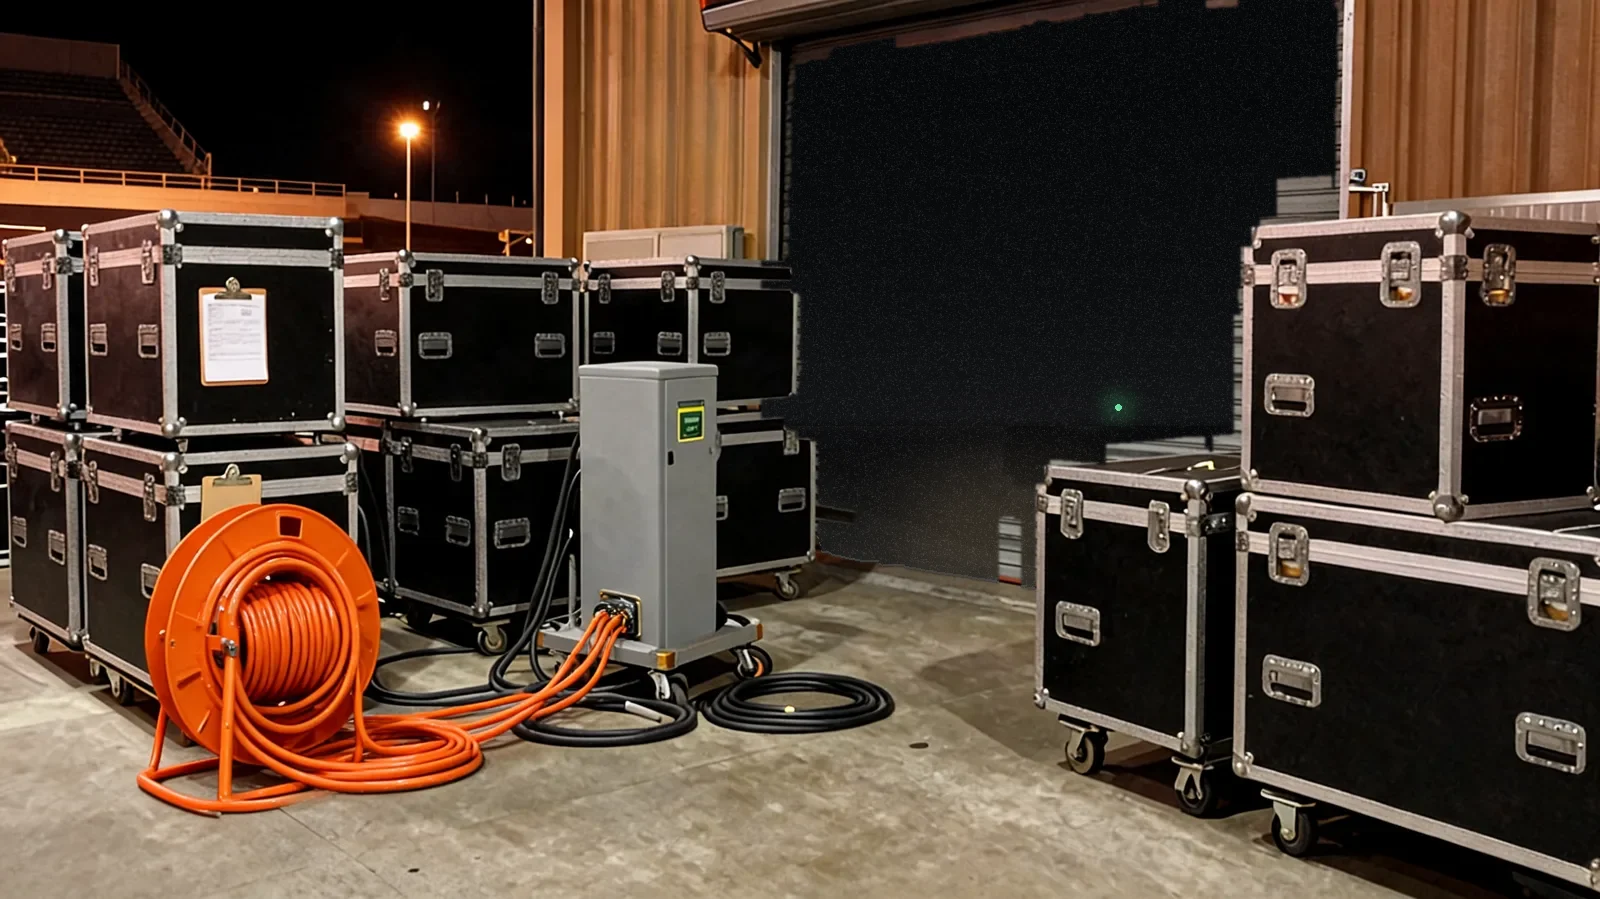
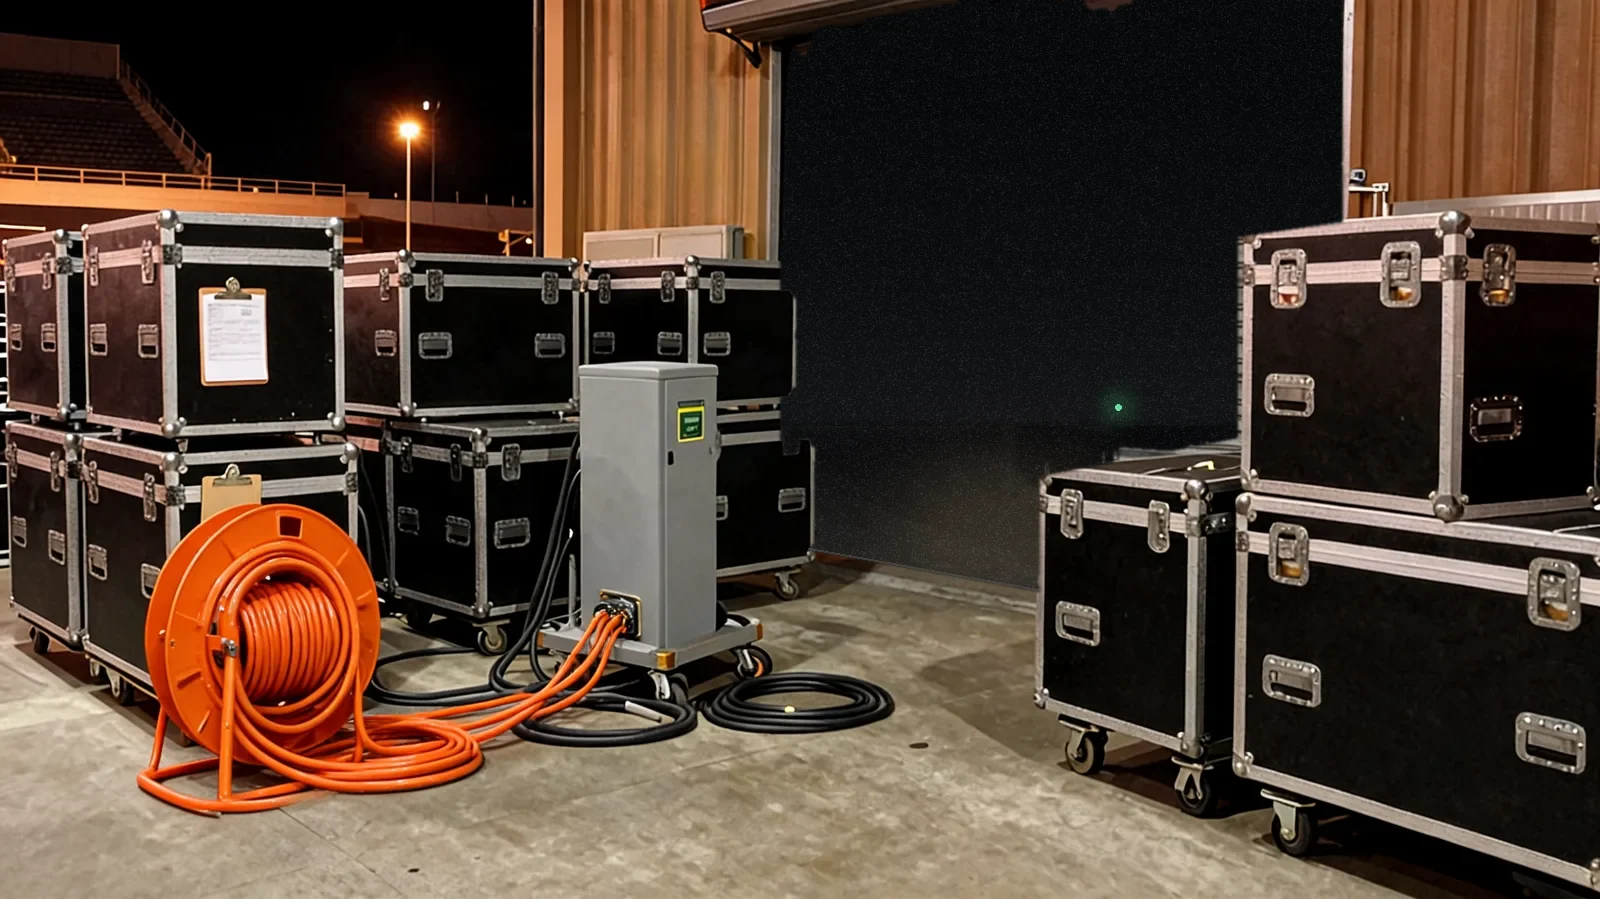
開口部の切り抜きをミリ単位に詰める
端にシャッターが残っていた原因をすべて潰した。
- 手前の機材ケースの位置が実際と違っていた（前のケースは x=1040 から、
  右のケースの天板は y≈230。影を本体と誤検出して天板を高く見積もっていた）
- 左の重ね置きケースは列ごとの上端検出だとシャッター側を削るので、
  輪郭そのものを塗りつぶして求める方式に変更。スラットの段差を壁にして
  シャッター側へ染み出さないようにした
- 左右の戸当たりは垂直に、床との接地線は直線当てはめでクランプ。
  右の明るいガイドレールは建物の一部なので塗らない
- 芯から外へ広げる処理で境界のにじみ画素まで飲み込むようにし、
  大きなカーネルの開閉（階段状のギザギザの原因）をやめた

diff --git a/tools/shutter_mask.py b/tools/shutter_mask.py
@@ -1,11 +1,16 @@
 """バックヤード写真から「シャッター面だけ」のマスクを写真自身から切り出す。
 
-手で多角形を引くと必ず手前の機材ケースに掛かってしまうので、
-シャッター特有の「横スジ（スラット）＋低彩度」という手掛かりでピクセル単位に判定し、
-シャッター内部の種から連結成分を広げて輪郭を得る。
+手で多角形を引くと必ず手前の機材ケースに掛かるので、ピクセル単位で判定する。
+
+手順
+  1. core   : シャッター特有の「横スジ（スラット）＋低彩度」で芯を取る（保守的）
+  2. grow   : 芯から1pxずつ外へ広げる。止めるのは「明らかに別の材質」の画素だけ
+              （木＝高彩度／ケース本体＝暗くて平坦／コンクリート・金具＝明るくて平坦）。
+              境界のにじみ画素まで飲み込むので、縁にスラットが残らない。
+  3. cases  : 手前の機材ケースは列ごとに本体の上端とアルミ縁を検出して必ず除外
+  4. 仕上げ : 穴埋め → 小さい半径で整える（大きなカーネルは階段状のギザギザを生む）
 
 usage: python tools/shutter_mask.py [--debug]
-出力: tools/shutter_mask.png（白＝開口部）／--debug で tools/shutter_mask_debug.png
 """
 import sys
 from collections import deque
@@ -16,86 +21,194 @@ from PIL import Image, ImageFilter
 SRC = 'public/img/backyard_cable.webp'
 OUT = 'tools/shutter_mask.png'
 
-# 探索範囲（この外はシャッターではない）
-X0, X1, Y0, Y1 = 760, 1420, 0, 640
-# シャッター面だと分かっている点（連結成分の種）
+X0, X1, Y0, Y1 = 700, 1440, 0, 660
 SEEDS = [(900, 300), (1000, 200), (1100, 300), (860, 480), (960, 500), (1150, 120), (1250, 300)]
+#: 手前に立っている機材ケース (x範囲, 本体を探し始める y, 上端を直線で均すか, 判定窓, 平均のしきい値)
+#: 右の2つは天板が直線なので、列ごとの検出を最小二乗で直線に均す（外れ値に強い）。
+#: 左の重ね置きは段差があるので列ごとの検出をそのまま使う。
+CASES = [
+    (1040, 1266, 430, True, 18, 88),
+    (1238, 1440, 186, True, 18, 88),
+]
+#: 左に重ね置きされたケースは段差があるので、輪郭そのものを塗りつぶして求める
+LEFT_CASE = {'seeds': [(760, 350), (770, 480), (730, 300), (790, 300)],
+             'x': (700, 832), 'y': (236, 624)}
+GROW = 18          # 芯から広げてよい最大距離（px）
+FLOOR_X = (830, 1008)   # シャッターが床に接しているのが見えている列の範囲
+JAMB_X = 780            # 左の戸当たり（垂直）
+JAMB_R = 1342           # 右の戸当たり。ここから右の明るいレールは建物側なので塗らない
 
 
-def build():
-    img = Image.open(SRC).convert('RGB')
+def features(img):
     a = np.asarray(img).astype(np.float32)
-    H, W, _ = a.shape
-
     gray = a.mean(axis=2)
     chroma = a.max(axis=2) - a.min(axis=2)
-
-    # 横スジの強さ：縦方向の微分を縦に均した量（スラットの段差に強く反応する）
+    # 横スジの強さ。縦に±2px差分を取り、横方向にだけ軽く均す
+    # （横にぼかす分にはスラットは一様なので、左右の境界が甘くならない）
     dy = np.zeros_like(gray)
     dy[2:-2] = np.abs(gray[4:] - gray[:-4])
-    ridge = np.asarray(Image.fromarray(dy.astype(np.uint8)).filter(ImageFilter.BoxBlur(4))).astype(np.float32)
+    dy = np.maximum.reduce([np.roll(dy, k, axis=0) for k in (-3, -1, 0, 1, 3)])
+    ridge = np.asarray(Image.fromarray(dy.clip(0, 255).astype(np.uint8))
+                       .filter(ImageFilter.BoxBlur((1, 0)))).astype(np.float32)
+    return gray, chroma, ridge
 
-    # 縦方向のエッジ（ケースの金具・角は縦の段差が強い）→ シャッターらしさを下げる
-    dx = np.zeros_like(gray)
-    dx[:, 2:-2] = np.abs(gray[:, 4:] - gray[:, :-4])
-    vedge = np.asarray(Image.fromarray(dx.astype(np.uint8)).filter(ImageFilter.BoxBlur(4))).astype(np.float32)
 
-    # 木の壁は彩度が高く（chroma 90前後）横スジが無い（ridge 1〜2）ので、
-    # chroma をゆるめても入ってこない。影になったシャッター左側（chroma 40〜50）を拾うため広めに取る。
-    cand = (chroma < 60) & (ridge > 8.0) & (vedge < ridge * 1.35) & (gray > 26) & (gray < 215)
-    box = np.zeros_like(cand)
-    box[Y0:Y1, X0:X1] = True
-    cand &= box
-    # 手前の機材ケースの天板（アルミの縁）はシャッターと区別できないので、
-    # ケース本体（暗い面）の上端を列ごとに見つけて、そこから縁の厚み分だけ上で切る。
-    cand &= ~occluders(gray, chroma)
+def case_regions(gray, ridge, lip_min=104, lip_max=24):
+    """手前の機材ケースが占める範囲（アルミの縁を含む）。
 
-    # 種から連結成分を広げる（4近傍）
-    keep = np.zeros_like(cand)
+    ケースの黒い面は「そこから下へ18px の平均が暗い」で見分ける。
+    シャッターの暗いスジは5px程度しか続かないので、この条件には掛からない。
+    """
+    H, W = gray.shape
+    occ = np.zeros((H, W), dtype=bool)
+    for x_from, x_to, y_from, straight, win, thr in CASES:
+        xs, tops = [], []
+        for x in range(x_from, min(x_to, W)):
+            body = None
+            for y in range(y_from, H - win):
+                if gray[y, x] < 108 and gray[y:y + win, x].mean() < thr:
+                    body = y
+                    break
+            if body is None:
+                continue
+            # 本体のすぐ上にある明るいアルミ縁も、ケースの一部として残す
+            top = body
+            k = body - 1
+            while k > body - lip_max and gray[k, x] >= lip_min and ridge[k, x] < 12:
+                top = k
+                k -= 1
+            xs.append(x)
+            tops.append(top)
+        if not xs:
+            continue
+        xs, tops = np.array(xs), np.array(tops, dtype=float)
+        if straight and xs.size > 30:
+            med = np.median(tops)
+            ok = np.abs(tops - med) < 45          # 影などによる外れ値を捨てる
+            if ok.sum() > 20:
+                a1, b1 = np.polyfit(xs[ok], tops[ok], 1)
+                line = a1 * np.arange(x_from, min(x_to, W)) + b1
+                # 角が丸い所は直線より上に出るので、近い実測値があればそちらを採る
+                raw = dict(zip(xs.tolist(), tops.tolist()))
+                xs = np.arange(x_from, min(x_to, W))
+                tops = np.array([
+                    min(v, raw[x]) if abs(raw.get(x, v + 99) - v) < 14 else v
+                    for x, v in zip(xs.tolist(), line.tolist())
+                ])
+        for x, top in zip(xs, tops):
+            occ[max(0, int(top) - 1):, int(x)] = True
+    return occ
+
+
+def left_case_region(gray, ridge, chroma, barrier):
+    """左に重ね置きされた機材ケースの輪郭。
+
+    「スラットの縞ではない」画素を種から塗りつぶす。段差のある形をそのまま拾えるので、
+    列ごとの上端検出のようにシャッター側を削り取ってしまうことがない。
+    """
+    H, W = gray.shape
+    x0, x1 = LEFT_CASE['x']
+    y0, y1 = LEFT_CASE['y']
+    # スラットの段差（core を少し太らせた物）を壁にして、シャッター側へ染み出さないようにする
+    caseish = ((ridge < 18) | (gray < 72)) & (chroma < 72) & ~barrier
+    seen = np.zeros((H, W), dtype=bool)
     q = deque()
-    for sx, sy in SEEDS:
-        if cand[sy, sx] and not keep[sy, sx]:
-            keep[sy, sx] = True
+    for sx, sy in LEFT_CASE['seeds']:
+        if caseish[sy, sx]:
+            seen[sy, sx] = True
             q.append((sx, sy))
     while q:
         x, y = q.popleft()
         for nx, ny in ((x + 1, y), (x - 1, y), (x, y + 1), (x, y - 1)):
-            if X0 <= nx < X1 and Y0 <= ny < Y1 and cand[ny, nx] and not keep[ny, nx]:
+            if x0 <= nx < x1 and y0 <= ny < y1 and caseish[ny, nx] and not seen[ny, nx]:
+                seen[ny, nx] = True
+                q.append((nx, ny))
+    m = fill_holes(Image.fromarray((seen * 255).astype(np.uint8), 'L'))
+    m = m.filter(ImageFilter.MaxFilter(9))     # 縁を少し外へ（ケース側に余裕を持たせる）
+    return np.asarray(m) > 127
+
+
+def build():
+    img = Image.open(SRC).convert('RGB')
+    gray, chroma, ridge = features(img)
+    H, W = gray.shape
+
+    box = np.zeros((H, W), dtype=bool)
+    box[Y0:Y1, X0:X1] = True
+    # --- 1. 芯：確実にシャッターと言える所だけ
+    raw_core = (chroma < 52) & (ridge > 16) & (gray > 26) & (gray < 215) & box
+    barrier = np.asarray(Image.fromarray((raw_core * 255).astype(np.uint8), 'L')
+                         .filter(ImageFilter.MaxFilter(9))) > 127
+    occ = case_regions(gray, ridge) | left_case_region(gray, ridge, chroma, barrier)
+    core = raw_core & ~occ
+
+    # --- 2. 広げる：明らかに別の材質でなければ入れる
+    other = (
+        (chroma > 62)                       # 木の壁
+        | ((gray < 70) & (ridge < 14))      # ケースの黒い面
+        | ((gray > 104) & (ridge < 9))      # コンクリート・アルミの縁・金具
+    )
+    passable = box & ~occ & ~other
+
+    keep = np.zeros((H, W), dtype=bool)
+    dist = np.zeros((H, W), dtype=np.int16)
+    q = deque()
+    for sx, sy in SEEDS:
+        if core[sy, sx]:
+            keep[sy, sx] = True
+            q.append((sx, sy))
+    # まず芯の連結成分、続けて passable 側へ GROW px だけ染み出す
+    while q:
+        x, y = q.popleft()
+        for nx, ny in ((x + 1, y), (x - 1, y), (x, y + 1), (x, y - 1)):
+            if not (X0 <= nx < X1 and Y0 <= ny < Y1) or keep[ny, nx]:
+                continue
+            if core[ny, nx]:
                 keep[ny, nx] = True
+                dist[ny, nx] = 0
+                q.append((nx, ny))
+            elif passable[ny, nx] and dist[y, x] < GROW:
+                keep[ny, nx] = True
+                dist[ny, nx] = dist[y, x] + 1
                 q.append((nx, ny))
 
     m = Image.fromarray((keep * 255).astype(np.uint8), 'L')
-    # スラットの継ぎ目で欠けた所を閉じる → 内側の穴を埋める → 1px 縮めて縁のにじみを避ける
-    m = m.filter(ImageFilter.MaxFilter(9)).filter(ImageFilter.MinFilter(9))
+    m = m.filter(ImageFilter.MaxFilter(5)).filter(ImageFilter.MinFilter(5))  # 小さな穴を閉じる
     m = fill_holes(m)
-    m = m.filter(ImageFilter.MinFilter(3))
-    return img, m
+    m = m.filter(ImageFilter.MedianFilter(5))                                 # ギザギザだけ均す
+    a = (np.asarray(m) > 127) & ~occ                                          # ケースは最後にもう一度守る
 
+    a[:, :JAMB_X] = False       # 左の戸当たりより外はシャッターではない
+    a[:, JAMB_R + 1:] = False   # 右の戸当たり（明るいガイドレール）は残す
 
-#: 手前に立っている機材ケース（x範囲, 探索を始める y, 縁のアルミの厚み）
-CASES = [(995, 1262, 430, 17), (1235, 1440, 150, 20)]
+    # 床との境目：列ごとに「スラットの段差が終わる高さ」を拾い、
+    # 床は平らなので直線に当てはめる（1列ずつだと影や粒で暴れる）。
+    dy = np.zeros_like(gray)
+    dy[2:-2] = np.abs(gray[4:] - gray[:-4])
+    xs, ys = [], []
+    for x in range(FLOOR_X[0], FLOOR_X[1]):
+        for y in range(500, 612):
+            if (dy[y:y + 8, x] < 25).all():
+                xs.append(x)
+                ys.append(y)
+                break
+    if len(xs) > 40:
+        xs, ys = np.array(xs), np.array(ys, dtype=float)
+        for _ in range(3):
+            k, b = np.polyfit(xs, ys, 1)
+            r = ys - (k * xs + b)
+            keep = np.abs(r) < max(5.0, 2 * r.std())
+            if keep.sum() < 30:
+                break
+            xs, ys = xs[keep], ys[keep]
+        k, b = np.polyfit(xs, ys, 1)
+        for x in range(X0, X1):
+            a[int(k * x + b) + 1:, x] = False
 
-
-def occluders(gray, chroma, run=8):
-    """手前の機材ケースが占めている範囲（アルミの縁まで含む）を返す。
-
-    ケースの黒い本体の上端を列ごとに探し、そこから縁の厚みだけ上で切る。
-    縁はシャッターと同じ灰色なので、色だけでは区別できない。
-    """
-    H, W = gray.shape
-    occ = np.zeros((H, W), dtype=bool)
-    dark = (gray < 100) & (chroma < 55)
-    for x_from, x_to, y_from, lip in CASES:
-        for x in range(x_from, min(x_to, W)):
-            for y in range(y_from, H - run):
-                if dark[y:y + run, x].all():
-                    occ[max(0, y - lip):, x] = True
-                    break
-    return occ
+    return img, Image.fromarray((a * 255).astype(np.uint8), 'L')
 
 
 def fill_holes(mask: Image.Image) -> Image.Image:
-    """外側から届かない 0 の領域（＝穴）を 255 で埋める。"""
     a = np.asarray(mask) > 127
     H, W = a.shape
     outside = np.zeros_like(a)
@@ -116,15 +229,15 @@ def fill_holes(mask: Image.Image) -> Image.Image:
             if 0 <= nx < W and 0 <= ny < H and not a[ny, nx] and not outside[ny, nx]:
                 outside[ny, nx] = True
                 q.append((nx, ny))
-    filled = a | ~outside
-    return Image.fromarray((filled * 255).astype(np.uint8), 'L')
+    return Image.fromarray(((a | ~outside) * 255).astype(np.uint8), 'L')
 
 
 if __name__ == '__main__':
     img, m = build()
     m.save(OUT)
     a = np.asarray(m) > 127
-    print('mask px:', int(a.sum()), 'bbox:', np.argwhere(a).min(0)[::-1], np.argwhere(a).max(0)[::-1])
+    ys, xs = np.nonzero(a)
+    print('mask px:', int(a.sum()), 'x:', xs.min(), xs.max(), 'y:', ys.min(), ys.max())
     if '--debug' in sys.argv:
         ov = np.asarray(img).copy()
         ov[a] = (ov[a] * 0.35 + np.array([255, 0, 160]) * 0.65).astype(np.uint8)

diff --git a/tools/make_variants.py b/tools/make_variants.py
@@ -25,15 +25,7 @@ mask = Image.open(MASK).convert('L').resize((W, H))
 m = np.asarray(mask) > 127
 
 BACK_Y = 430        # 奥の床と壁の境目
-# 閉まっていた時の「シャッター下端のレール」は、開いたら巻き上がって無くなるので、
-# 床に接している列だけマスクを少し下へ伸ばして消す
-m_ext = m.copy()
-for x in range(m.shape[1]):
-    ys = np.where(m[:, x])[0]
-    if ys.size and ys.max() > 520:
-        m_ext[ys.max():min(ys.max() + 11, m.shape[0]), x] = True
-m = m_ext
-mask = Image.fromarray((m * 255).astype(np.uint8), 'L')
+# マスクの下端は shutter_mask.py が床との接地線に合わせてあるので、ここでは触らない
 cols = np.where(m.any(axis=0))[0]
 X0, X1 = int(cols.min()), int(cols.max())
 # 列ごとの開口部の上端・下端（＝輪郭）

diff --git a/docs/GAME_DESIGN.md b/docs/GAME_DESIGN.md
@@ -214,6 +214,12 @@ graph TD
 - 状態変化用の写真（例：シャッターが開いた `backyard_open`）は、生成クレジットが無くても作れるように
   **元の写真のピクセルから合成する**（`tools/make_variants.py`）。別の写真を切り貼りすると必ず「貼った四角」に見えるため、
   夜の暗がり・床の照り返し・接地影として描き起こし、質感は同じ写真のコンクリートを流用する。
+- 差し替える範囲（開口部）は手で多角形を引かず、`tools/shutter_mask.py` が写真から1px単位で切り出す：
+  ①シャッター特有の「横スジ＋低彩度」で芯を取る ②明らかに別の材質（木＝高彩度／ケース＝暗く平坦／
+  コンクリート・金具＝明るく平坦）に当たるまで芯から外へ広げ、境界のにじみ画素まで飲み込む
+  ③手前の機材ケースは天板の直線当てはめ（右・前）と輪郭の塗りつぶし（左の重ね置き）で必ず除外
+  ④左右の戸当たりは垂直、床との接地線は直線当てはめでクランプ。
+  `python tools/shutter_mask.py --debug` で抽出範囲を色付きで確認できる。
 
 ## 10. スマホ対応（横持ち前提）
 - `index.html` の viewport で `user-scalable=no, maximum-scale=1`、CSS で `touch-action: manipulation` / `overscroll-behavior: none` /
